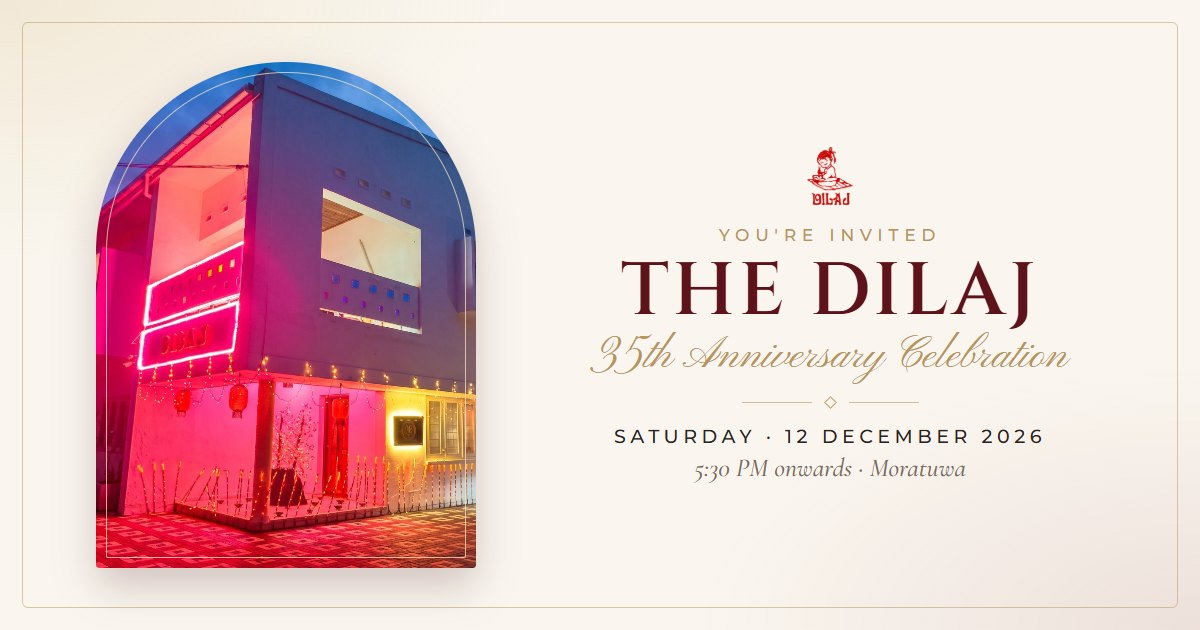
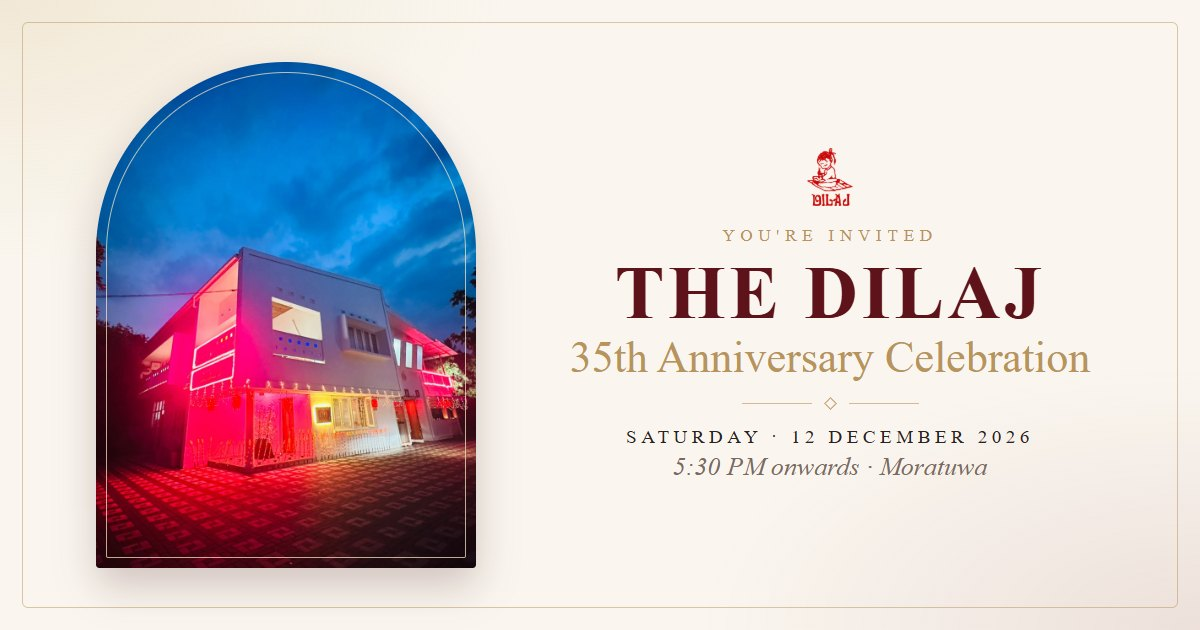
Use real Dilaj building photos: new top photo + building gallery (client request)

diff --git a/index.html b/index.html
@@ -21,7 +21,7 @@
 <link rel="preconnect" href="https://fonts.googleapis.com">
 <link rel="preconnect" href="https://fonts.gstatic.com" crossorigin>
 <link href="https://fonts.googleapis.com/css2?family=Cinzel:wght@500;600;700&family=Cormorant+Garamond:ital,wght@0,500;0,600;1,500&family=Montserrat:wght@400;500;600&family=Pinyon+Script&display=swap" rel="stylesheet">
-<link rel="preload" href="img/hero-night.jpg" as="image">
+<link rel="preload" href="img/hero.jpg" as="image">
 <!--
   THE DILAJ — 35th Anniversary · web invitation (layout modelled on the invitation.lk style the client liked)
   Palette: ivory + oxblood + champagne gold, logo red as a small accent.
@@ -120,7 +120,7 @@
 
   .arch { position: relative; margin: 0 auto; width: 84%; aspect-ratio: 3 / 3.8; border-radius: 999px 999px 18px 18px; overflow: hidden;
           box-shadow: 0 18px 40px rgba(62,10,16,.18); background: var(--sand); }
-  .arch img { width: 100%; height: 100%; object-fit: cover; object-position: 36% 50%; }
+  .arch img { width: 100%; height: 100%; object-fit: cover; object-position: 50% 50%; }
   .arch::after { content: ""; position: absolute; inset: 10px; border: 1px solid rgba(243,227,195,.7); border-radius: 999px 999px 12px 12px; pointer-events: none; }
 
   .card { background: var(--card); border-radius: 22px; padding: 34px 22px; box-shadow: 0 10px 30px rgba(62,10,16,.06); border: 1px solid rgba(184,147,90,.18); }
@@ -249,7 +249,7 @@
 
 <main>
   <section id="home">
-    <div class="arch rv"><img src="img/hero-night.jpg" alt="The Dilaj restaurant at night, Moratuwa"></div>
+    <div class="arch rv"><img src="img/hero.jpg" alt="The Dilaj, Uyana Road, Moratuwa, lit up at dusk"></div>
     <div class="card intro rv">
       <div class="dear" id="dear" hidden></div>
       <div class="k">Mr. Ajith Cooray<br>&amp; the family of</div>
@@ -317,20 +317,20 @@
   </section>
 
   <section id="gallery">
-    <div class="rv"><div class="k">Thirty-five years of flavour</div>
-      <div class="h2">MOMENTS &amp; <span>FLAVOURS</span></div><div class="div"><i></i></div></div>
+    <div class="rv"><div class="k">Uyana Road, Moratuwa · since 1991</div>
+      <div class="h2">OUR <span>HOME</span></div><div class="div"><i></i></div></div>
     <div class="gal rv" id="gal">
       <div class="col">
-        <button class="tall" data-cap="The Dilaj by night"><img loading="lazy" src="img/hero-night.jpg" alt="The Dilaj by night" style="object-position:36% 50%"></button>
-        <button class="short" data-cap="Sunday Special Chicken Biryani"><img loading="lazy" src="img/biryani.jpg" alt="Sunday Special Chicken Biryani"></button>
-        <button class="mid" data-cap="Devilled Prawns"><img loading="lazy" src="img/prawns.jpg" alt="Devilled Prawns"></button>
-        <button class="short" data-cap="Fried Chicken Wings"><img loading="lazy" src="img/wings.jpg" alt="Fried Chicken Wings"></button>
+        <button class="tall" data-cap="The Dilaj at dusk"><img loading="lazy" src="img/dusk-glow.jpg" alt="The Dilaj at dusk" style="object-position:50% 50%"></button>
+        <button class="short" data-cap="The Dilaj by night"><img loading="lazy" src="img/night-neon.jpg" alt="The Dilaj by night" style="object-position:45% 50%"></button>
+        <button class="mid" data-cap="Glowing red for the evening"><img loading="lazy" src="img/dusk-wide.jpg" alt="Glowing red for the evening" style="object-position:50% 50%"></button>
+        <button class="short" data-cap="The courtyard, all lit up"><img loading="lazy" src="img/night-courtyard.jpg" alt="The courtyard, all lit up" style="object-position:50% 50%"></button>
       </div>
       <div class="col">
-        <button class="short" data-cap="Dilaj Special Fried Rice"><img loading="lazy" src="img/special-rice.jpg" alt="Dilaj Special Fried Rice"></button>
-        <button class="tall" data-cap="The Dilaj, Uyana Road, Moratuwa"><img loading="lazy" src="img/front.jpg" alt="The Dilaj restaurant front" style="object-position:45% 50%"></button>
-        <button class="short" data-cap="Hot Butter Cuttlefish"><img loading="lazy" src="img/cuttlefish.jpg" alt="Hot Butter Cuttlefish"></button>
-        <button class="mid" data-cap="Hong Kong Chicken"><img loading="lazy" src="img/hongkong.jpg" alt="Hong Kong Chicken"></button>
+        <button class="short" data-cap="Lanterns at The Dilaj"><img loading="lazy" src="img/night-lanterns.jpg" alt="Lanterns at The Dilaj" style="object-position:45% 50%"></button>
+        <button class="tall" data-cap="The Dilaj, Uyana Road, Moratuwa"><img loading="lazy" src="img/dusk-corner.jpg" alt="The Dilaj, Uyana Road, Moratuwa" style="object-position:50% 50%"></button>
+        <button class="short" data-cap="Evening lights"><img loading="lazy" src="img/evening-lights.jpg" alt="Evening lights" style="object-position:50% 50%"></button>
+        <button class="mid" data-cap="The Dilaj by day"><img loading="lazy" src="img/day-front.jpg" alt="The Dilaj by day" style="object-position:55% 50%"></button>
       </div>
     </div>
   </section>
